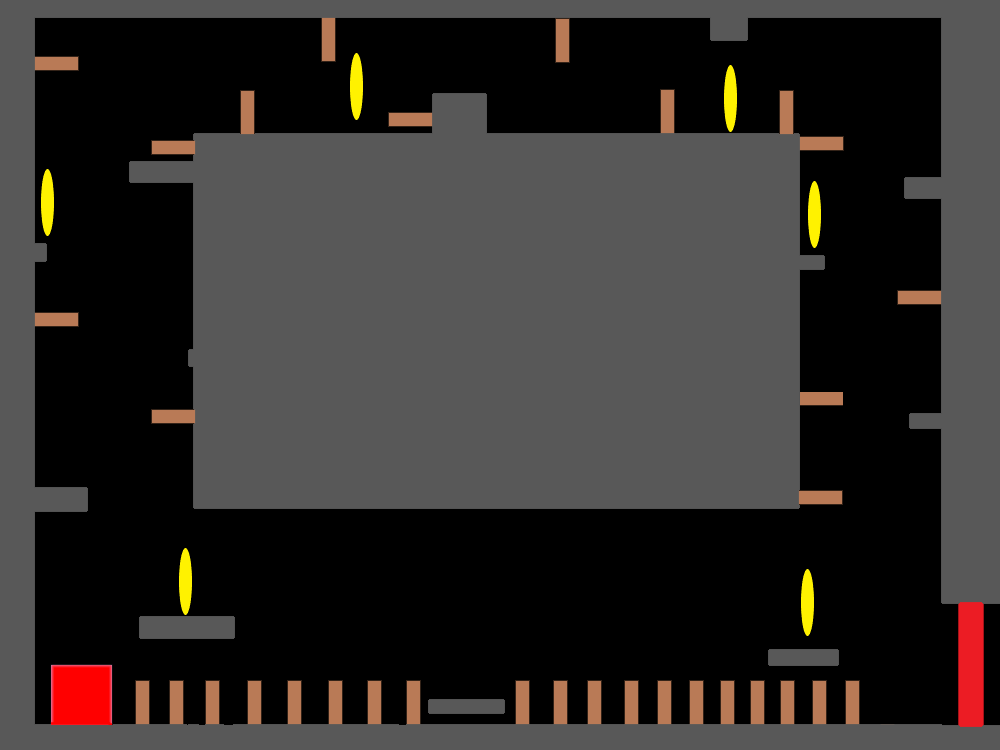
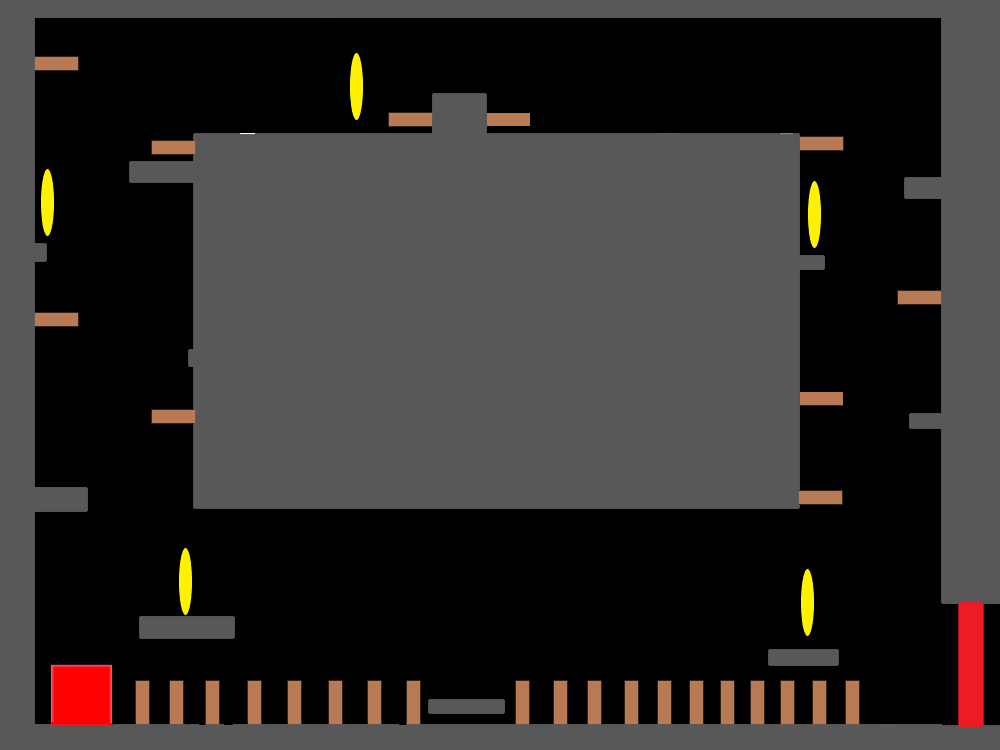
Levels complete

diff --git a/bounce.js b/bounce.js
@@ -51,12 +51,15 @@ var step = function() {
     animate(step);
 };
 
-var backgrounds = {0: "#00bfff", 1: "#00bfff", 2:"#000000"};
-var foregrounds = {0: "#800000", 1: "#800000", 2:"#585858"};
+var backgrounds = {0: "#00bfff", 1: "#00bfff", 2: "#000000", 3: "#000000", 
+                   4: "#88001b", 5: "#88001b"};
+var foregrounds = {0: "#800000", 1: "#800000", 2: "#585858", 3: "#585858", 
+                   4: "#6113af", 5: "#6113af"};
 var starting = {0: {x: 200, y: 670}, 1: {x: 200, y: 670}, 
-                2: {x: 81, y: height - 50}};
+                2: {x: 81, y: height - 50}, 3: {x: 81, y: 694}, 4: {x: 83, y: 700}, 
+                5: {x: 89, y: 698}}; 
 
-var level = 2;
+var level = 5;
 var screen = 0;
 
 var collidables = {};
@@ -77,10 +80,110 @@ collidables[20] = [new Platform(0, height - 26, width, 1), new Spike(135, 680, 0
                    new Spike(150, 409, 3), new Platform(185, 349, 8, 18), 
                    new Spike(35, 312, 1), new Platform(35, 243, 12, 19), 
                    new Platform(150, 133, 55, 22), new Ring(47, 202), 
-				   new EndGoal(width - 30, height - 150), new Spike(35, 50, 1), 
-				   new Spike(150, 155, 3), new Ring(356, 86), 
-                   new Spike(389, 113, 3), new Platform(432, 110, 55, 23), 
-                   new Spike(800, 137, 1), new Platform(920, 177, 37, 22)];
+                   new Spike(35, 50, 1), 
+				   new Spike(150, 155, 3), new Ring(486, 86),
+                   new Spike(269, 113, 3), new Platform(312, 110, 55, 23), 
+                   new Spike(367, 113, 1),
+                   new Spike(569, 113, 3), new Platform(612, 110, 55, 23), 
+                   new Spike(667, 113, 1),
+                   new Spike(800, 137, 1),
+                   new Platform(920, 177, 37, 22), 
+                   new Platform(width-30, 624, 30, 100), 
+                   new Platform(941, 16, 59, 608), new EndGoal(width - 30, 624), 
+                   new Spike(516, 681, 0), new Spike(554, 681, 0), 
+                   new Spike(588, 681, 0),
+                   new Spike(625, 681, 0), new Spike(658, 681, 0), 
+                   new Spike(690, 681, 0), new Spike(721, 681, 0), 
+                   new Spike(751, 681, 0), new Spike(781, 681, 0),
+                   new Spike(813, 681, 0), new Spike(846, 681, 0), 
+                   new Platform(768, 649, 71, 17), new Ring(804, 602), 
+                   new Spike(898, 360, 3)];
+collidables[30] = [new Platform(0, height - 26, width, 5), 
+                   new Platform(941, 17, 59, 607), new Platform(35, 626, 75, 19), 
+                   new Spike(187, 681, 0), new Spike(35, 471, 1), 
+                   new Platform(200, 537, 48, 20), new Ring(224, 491), 
+                   new Platform(248, 107, 77, 617), new Platform(536, 17, 74, 596), 
+                   new Platform(738, 141, 85, 583), new EndGoal(width - 30, 624), 
+                   new Platform(35, 396, 17, 19), new Platform(181, 282, 67, 19), 
+                   new Spike(184, 301, 2), new Platform(35, 165, 14, 19), 
+                   new Platform(168, 125, 80, 20), new Platform(325, 156, 128, 20), 
+                   new Spike(355, 113, 0), new Spike(355, 176, 2), 
+                   new Spike(459, 18, 2), new Ring(511, 123), 
+                   new Platform(444, 256, 92, 20), new Spike(485, 276, 2), 
+                   new Platform(325, 392, 79, 20), new Ring(374, 349), 
+                   new Spike(493, 470, 3), new Spike(325, 540, 1), 
+                   new Ring(350, 685), new Spike(436, 681, 0), 
+                   new Spike(695, 694, 3), new Platform(714, 645, 24, 20), 
+                   new Platform(610, 593, 16, 20), new Spike(722, 492, 2), 
+                   new Platform(719, 473, 19, 19), new Platform(610, 341, 19, 18), 
+                   new Spike(613, 359, 2), new Platform(719, 197, 19, 19), 
+                   new Spike(723, 216, 2), new Ring(728, 155), 
+                   new Spike(914, 155, 0), 
+                   new Spike(928, 155, 0), new Spike(823, 319, 0), 
+                   new Spike(837, 319, 0), new Ring(900, 355), 
+                   new Spike(914, 472, 0), new Spike(928, 472, 0), 
+                   new Ring(865, 554), new Spike(823, 649, 0)];
+collidables[40] = [new Spike(223, 725, 3), new Spike(454, 725, 3), 
+                   new Platform(0, height - 23, width, 23), 
+                   new Platform(944, 15, 56, 612), new EndGoal(970, 627), 
+                   new Platform(0, 0, 223, 591), new Platform(222, 561, 458, 30), 
+                   new Platform(223, 0, 382, 102), new Platform(223, 723, 1, 5), 
+                   new Platform(454, 723, 1, 5), new Spike(349, 591, 2), 
+                   new Ring(424, 684), new Spike(574, 591, 2), 
+                   new Spike(747, 684, 0), new Spike(614, 518, 0), 
+                   new Platform(789, 81, 66, 646), new Spike(487, 518, 0), 
+                   new Ring(366, 519), new Spike(293, 518, 0), 
+                   new Spike(287, 102, 2), new Spike(479, 102, 2), 
+                   new Platform(349, 415, 18, 44), new Platform(283, 330, 18, 44),
+                   new Platform(367, 235, 18, 44), new Platform(471, 290, 18, 44),
+                   new Platform(563, 343, 18, 44), new Ring(573, 299), 
+                   new Platform(665, 285, 18, 44), new Platform(729, 168, 18, 44),
+                   new Ring(930, 109), new Ring(867, 276), new Ring(932, 425), 
+                   new Ring(865, 563), new Spike(857, 684, 0)];
+collidables[50] = [new Spike(350, 723, 3), new Spike(855, 723, 3), 
+                   new Platform(0, 725, width, 25), new Platform(942, 17, 58, 586), 
+                   new Platform(968, 603, 32, 22), new Platform(159, 99, 37, 626), 
+                   new Platform(196, 388, 631, 31), new Platform(323, 570, 620, 33), 
+                   new Platform(151, 582, 8, 9), new Spike(34, 524, 1), 
+                   new Platform(34, 455, 8, 9), new Spike(115, 340, 3), 
+                   new Platform(151, 303, 8, 7), new Spike(34, 200, 1), 
+				   new Platform(34, 165, 8, 8), new Ring(178, 57), 
+				   new Spike(201, 344, 0), new Spike(234, 344, 0), 
+				   new EndGoal(970, 625), new Spike(265, 344, 0), 
+				   new Spike(293, 344, 0), new Spike(323, 344, 0), 
+				   new Spike(354, 344, 0), new Spike(387, 344, 0), 
+				   new Spike(413, 344, 0), new Spike(446, 344, 0), 
+				   new Spike(477, 344, 0), new Spike(505, 344, 0), 
+				   new Spike(535, 344, 0), new Spike(566, 344, 0), 
+				   new Spike(599, 344, 0), new Spike(626, 344, 0), 
+				   new Spike(659, 344, 0), new Spike(690, 344, 0), 
+				   new Spike(718, 344, 0), new Spike(748, 344, 0), 
+				   new Spike(779, 344, 0), new Spike(812, 344, 0), 
+				   new Platform(308, 294, 17, 24), new Platform(369, 219, 17, 24), 
+				   new Ring(316, 256), new Platform(457, 106, 17, 24), 
+				   new Platform(558, 172, 17, 24), new Platform(682, 301, 17, 24), 
+				   new Ring(691, 260), new Platform(808, 226, 17, 24), 
+				   new Ring(880, 361), new Spike(908, 528, 0), 
+				   new Spike(875, 528, 0), new Spike(844, 528, 0), 
+				   new Platform(828, 488, 17, 24), new Spike(814, 528, 0),
+				   new Spike(786, 528, 0), new Spike(755, 528, 0), 
+				   new Spike(722, 528, 0), new Platform(718, 505, 53, 14),
+				   new Spike(695, 528, 0), new Spike(662, 528, 0), 
+				   new Spike(631, 528, 0), new Spike(601, 528, 0), 
+				   new Platform(589, 484, 53, 14), new Spike(573, 528, 0),
+				   new Spike(542, 528, 0), new Spike(509, 528, 0),
+				   new Spike(483, 528, 0), new Platform(464, 505, 53, 14),
+				   new Spike(450, 528, 0), new Spike(419, 528, 0),
+				   new Spike(389, 528, 0), new Spike(361, 528, 0),
+				   new Spike(330, 528, 0), new Platform(321, 493, 53, 14),
+				   
+				   new Platform(365, 718, 1, 1),
+				   new Ring(516, 644), 
+				   new Death(529, 603, 223, 49), new Ring(841, 649),
+				   new Platform(870, 718, 1, 1)];
+
+var deaths = 0;
+
 /*
 up: 0
 right: 1
@@ -119,7 +222,6 @@ Ball.prototype.render = function() {
     context.fillStyle = "#FF0000";
     context.fillRect(this.x - this.radius, this.y - this.radius, 
                      2 * this.radius, 2 * this.radius);
-    context.fill();
 };
 
 function Platform(x, y, width, height) {
@@ -191,6 +293,9 @@ Ball.prototype.jump = function() {
                 this.y_speed = -25;
                 break;
             case 2:
+            case 3:
+            case 4:
+            case 5:
                 this.y_speed = -15;
                 break;
         }
@@ -247,7 +352,7 @@ Ball.prototype.forceRight = function(x) {
 }
 
 function EndGoal(x, y) {
-    this.levelRequirements = {0: 0, 1: 1, 2: 6};
+    this.levelRequirements = {0: 0, 1: 1, 2: 4, 3: 7, 4: 7, 5: 6};
     this.x = x;
     this.y = y;
     this.width = 30;
@@ -275,25 +380,12 @@ EndGoal.prototype.render = function() {
     context.fillRect(this.x, this.y, this.width, this.height);
 }
 
-/*
-up: 0
-right: 1
-down: 2
-left: 3
-*/
-function Spike(x, y, orientation){
-    this.orientation = orientation;
+function Death(x, y, width, height) {
     this.x = x;
     this.y = y;
-    if(orientation % 2 == 0) {
-        this.width = 14;
-        this.height = 44;
-        this.fRadius = this.width / 2;
-    } else {
-        this.width = 44;
-        this.height = 14;
-        this.fRadius = this.height / 2;
-    }
+    this.width = width;
+    this.height = height;
+    
     this.onTouch = function() {
         alert("You died!\nGet good");
         ball.reset();
@@ -305,6 +397,45 @@ function Spike(x, y, orientation){
             }
         }
         ringsTouched = 0;
+        deaths++;
+    };
+}
+
+Death.prototype.render = function() {};
+
+/*
+up: 0
+right: 1
+down: 2
+left: 3
+*/
+function Spike(x, y, orientation){
+    this.orientation = orientation;
+    this.x = x;
+    this.y = y;
+    
+    if(orientation % 2 == 0) {
+        this.width = 14;
+        this.height = 44;
+        this.fRadius = this.width / 2;
+    } else {
+        this.width = 44;
+        this.height = 14;
+        this.fRadius = this.height / 2;
+    }
+    
+    this.onTouch = function() {
+        alert("You died!\nGet good");
+        ball.reset();
+        let coll = collidables[10 * level + screen];
+        for(let i = 0;i<coll.length;i++) {
+            let col = coll[i];
+            if(col instanceof Ring) {
+                col.collected = false;
+            }
+        }
+        ringsTouched = 0;
+        deaths++;
     };
 }
 
@@ -379,7 +510,7 @@ var collideSide = function(bal, thing) {
       
         let oX = hWidths - Math.abs(vX),
             oY = hHeights - Math.abs(vY);
-        if (oX >= oY) {
+        if (oX >  oY) {
             if (vY < 0) {
                 colDir = "t";
             } else {
@@ -398,17 +529,28 @@ var collideSide = function(bal, thing) {
 };
 
 var collisionFor = function(level, screen) {
+    ball.forceLeft(width - 30);
     switch(level) {
         case 0:
         case 1:
             ball.forceRight(30);
             ball.forceBelow(380);
-            ball.forceLeft(width - 30);
             break;
         case 2:
             ball.forceBelow(47);
             ball.forceRight(35);
-            ball.forceLeft(width - 59);
+            break;
+        case 3:
+            ball.forceBelow(48);
+            ball.forceRight(35);
+            break;
+        case 4:
+            ball.forceRight(32);
+            ball.forceBelow(45);
+            break;
+        case 5:
+            ball.forceRight(34);
+            ball.forceBelow(47);
             break;
     }
 }
@@ -480,6 +622,8 @@ var update = function() {
     ball.update();
 };
 
+let torch1 = new Spike(623, 681, 0);
+
 var renderLevel = function(level, screen) {
     context.fillStyle = backgrounds[level];
     context.fillRect(0, 0, width, height);
@@ -496,13 +640,38 @@ var renderLevel = function(level, screen) {
             context.fillRect(0, height - 26, width, height - 26);
             context.fillRect(0, 0, width, 17);
             context.fillRect(0, 0, 35, height);
-            context.fillRect(941, 0, 59, 604);
+            break;
+        case 3:
+            context.fillRect(0, 0, 35, height);
+            context.fillRect(0, height - 26, width, 26);
+            context.fillRect(0, 0, width, 18);
+            break;
+        case 4:
+            context.fillRect(0, 0, width, 15);
+            context.fillRect(0, 0, 33, height);
+            
+            context.beginPath();
+            context.moveTo(193, 709);
+            context.quadraticCurveTo(209, 671, 243, 698);
+            context.quadraticCurveTo(280, 671, 295, 709);
+            context.closePath();
+            context.stroke();
+            
+            break;
+        case 5:
+            context.fillRect(0, 0, width, 17);
+            context.fillRect(0, 0, 34, height);
+			
+			torch1.render();
             break;
     }
-    
+}
+
+var renderText = function() {
     context.fillStyle = "#FFFFFF";
     context.font = "20px Consolas";
     context.fillText("Level " + level, 7, height - 7);
+    context.fillText("Deaths: " + deaths, width / 2, height - 7);
 }
 
 var render = function() {
@@ -517,4 +686,6 @@ var render = function() {
         let thing = collides_[i];
         thing.render();
     }
+    
+    renderText();
 };
